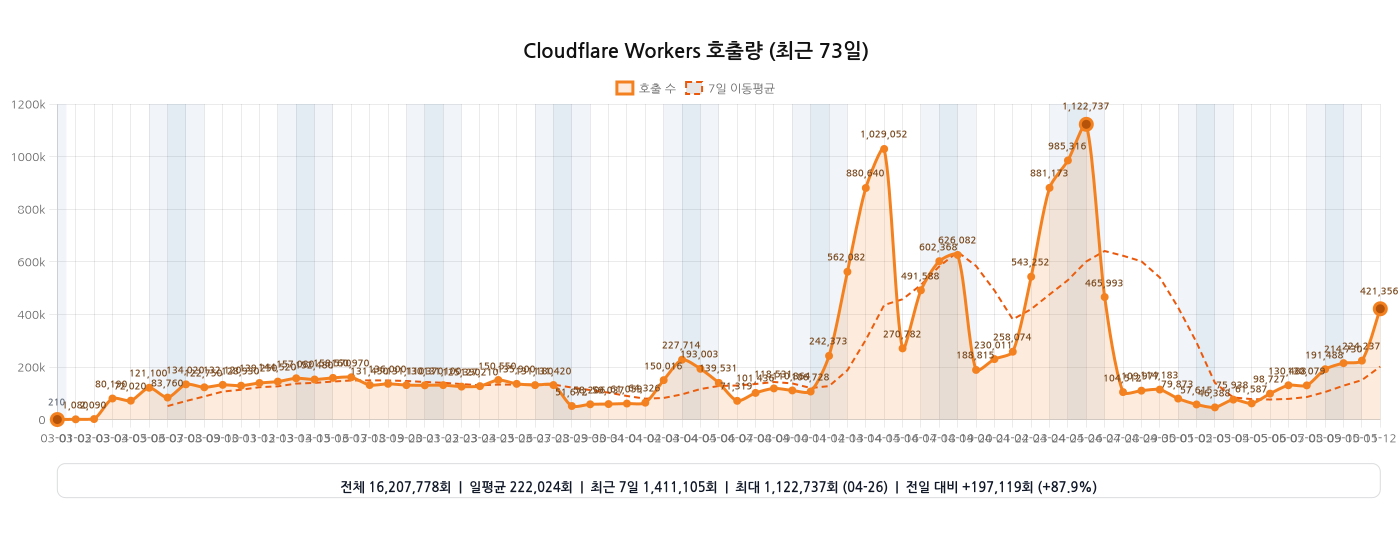
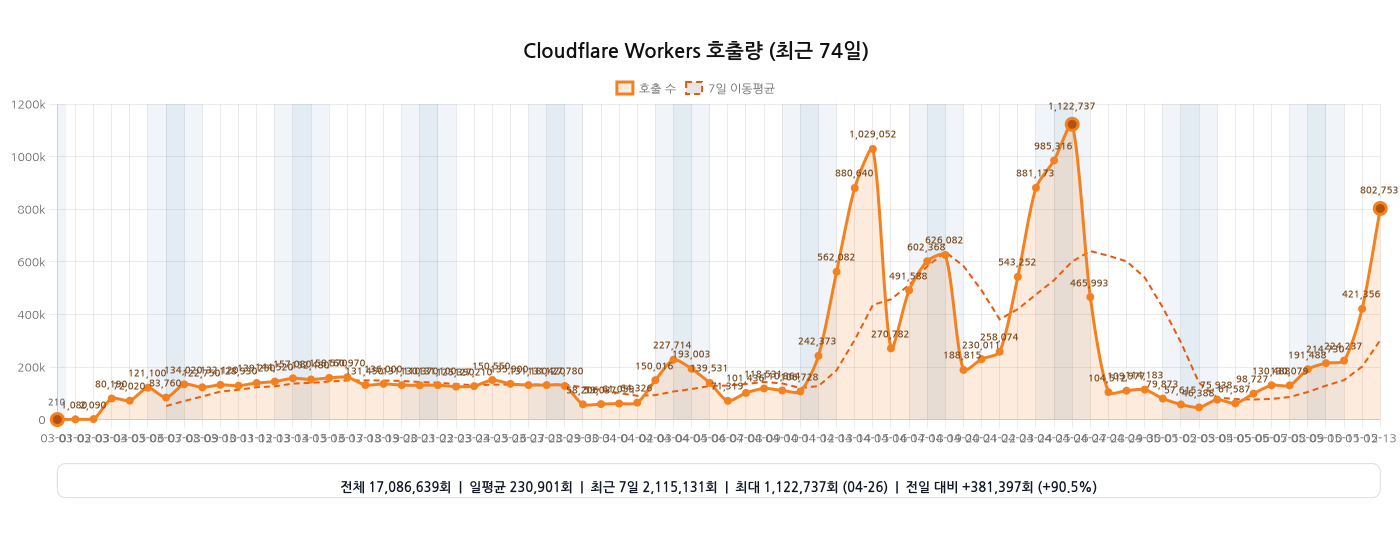
chore: 워커 호출량 그래프 자동 갱신

diff --git a/README.md b/README.md
@@ -18,11 +18,11 @@
 [![Coverage](https://github.com/hmmhmmhm/daiso-mcp/actions/workflows/coverage.yml/badge.svg?branch=main)](https://github.com/hmmhmmhm/daiso-mcp/actions/workflows/coverage.yml)
 
 <!-- WORKERS_INVOCATIONS_CHART:START -->
-<h3>Cloudflare Workers 호출량 (2026-03-01 ~ 2026-05-12, 73일)</h3>
+<h3>Cloudflare Workers 호출량 (2026-03-01 ~ 2026-05-13, 74일)</h3>
 
-<img src="./assets/analytics/workers-invocations.png?v=2026-05-12T16:17:21.440Z" alt="Cloudflare Workers 호출량 그래프 (2026-03-01 ~ 2026-05-12)" width="100%">
+<img src="./assets/analytics/workers-invocations.png?v=2026-05-13T16:17:50.944Z" alt="Cloudflare Workers 호출량 그래프 (2026-03-01 ~ 2026-05-13)" width="100%">
 
-<sub>기준 워커: <code>daiso-mcp</code> · 마지막 갱신: 2026-05-13 01:17 KST</sub>
+<sub>기준 워커: <code>daiso-mcp</code> · 마지막 갱신: 2026-05-14 01:17 KST</sub>
 
 <!-- WORKERS_INVOCATIONS_CHART:END -->
 
